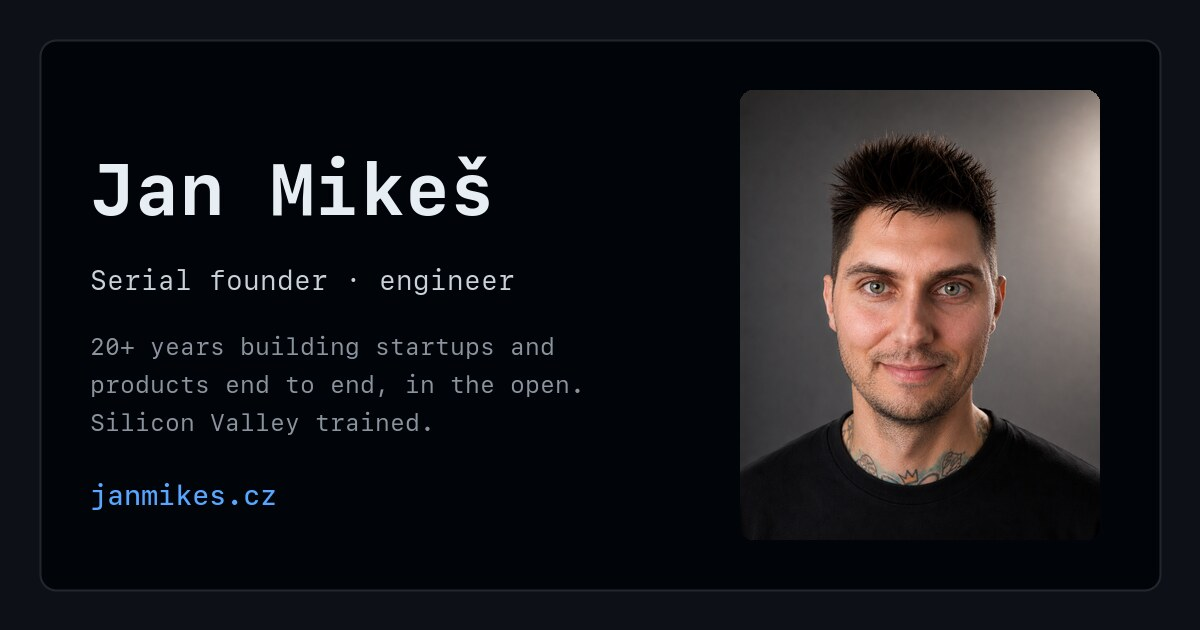
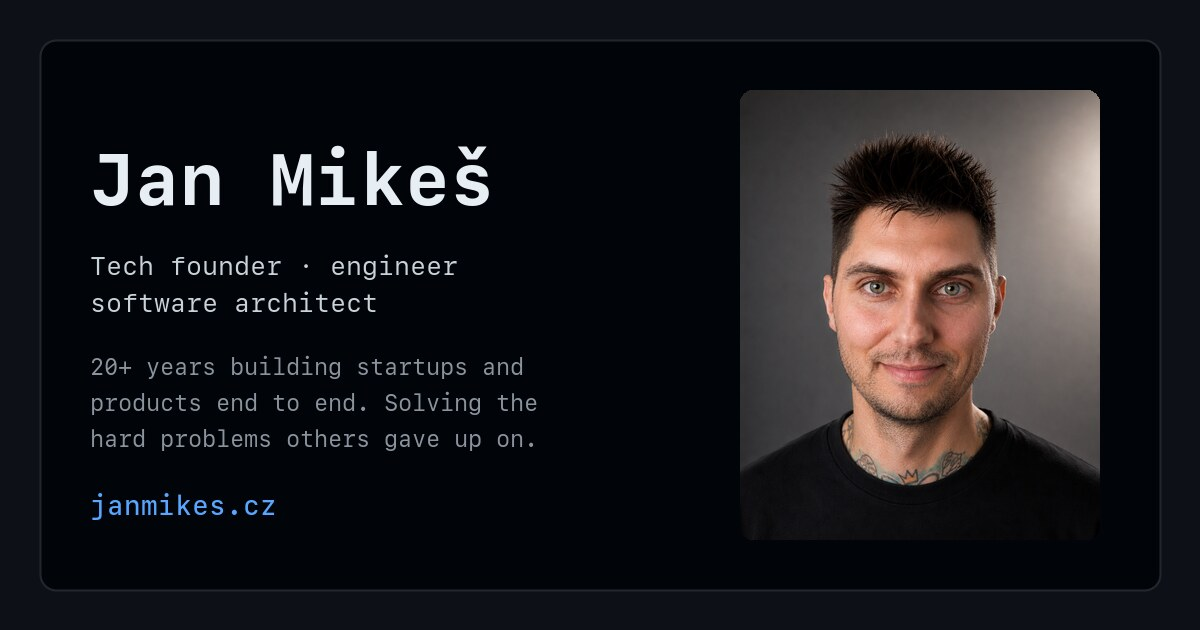
Move talks to a /slides/ page; sharpen the positioning
The Recently strip was tied to a single meetup and would have aged
badly at the top of the homepage. Talks now live on their own page.

- New /slides/ page listing all three decks, newest first:
  Tech Meetup #43 (clean context, jobless devs) and #39 (RAG chatbot).
  Titles taken from the live decks rather than guessed.
- Homepage: Recently header removed, replaced with a "Slides from my
  talks" CTA at the end of the topics section, where it follows on
  naturally from what I talk about
- Positioning: "Serial founder & engineer" -> "Tech founder & software
  architect" across title, OG/Twitter, JSON-LD and the social card
- Terminal now leads "Tech founder and hardcore engineer", second
  paragraph adds software architect and the hard-problems angle
- "Engineering" bullet -> "Engineering & architecture"
- sitemap.xml lists both pages

Claude-Session: https://claude.ai/code/session_01Y8howp8LuVKAx8KpiLhjQN

diff --git a/index.html b/index.html
@@ -3,8 +3,8 @@
 <head>
 <meta charset="utf-8">
 <meta name="viewport" content="width=device-width, initial-scale=1">
-<title>Jan Mikeš — Serial founder &amp; engineer</title>
-<meta name="description" content="Jan Mikeš — serial founder and hands-on engineer from the Czech Republic. 20+ years building startups and products end to end. Trained at Salesforce, Oracle and Google in Silicon Valley. Builder of MySpeedPuzzling.com and other things, mostly in the open.">
+<title>Jan Mikeš — Tech founder &amp; software architect</title>
+<meta name="description" content="Jan Mikeš — tech founder, hardcore engineer and software architect from the Czech Republic. 20+ years building startups and products end to end, and solving the hard problems others gave up on. Trained at Salesforce, Oracle and Google in Silicon Valley.">
 <link rel="canonical" href="https://janmikes.cz/">
 <meta name="color-scheme" content="dark light">
 <meta name="theme-color" content="#0d1117" media="(prefers-color-scheme: dark)">
@@ -13,19 +13,19 @@
 
 <meta property="og:type" content="profile">
 <meta property="og:site_name" content="janmikes.cz">
-<meta property="og:title" content="Jan Mikeš — Serial founder &amp; engineer">
-<meta property="og:description" content="20+ years building startups and products end to end. Serial founder, hands-on engineer, Silicon Valley trained. Building in the open.">
+<meta property="og:title" content="Jan Mikeš — Tech founder &amp; software architect">
+<meta property="og:description" content="20+ years building startups and products end to end. Tech founder, hardcore engineer and software architect. Silicon Valley trained, building in the open.">
 <meta property="og:url" content="https://janmikes.cz/">
 <meta property="og:image" content="https://janmikes.cz/assets/og.jpg">
 <meta property="og:image:width" content="1200">
 <meta property="og:image:height" content="630">
-<meta property="og:image:alt" content="Jan Mikeš — serial founder and engineer">
+<meta property="og:image:alt" content="Jan Mikeš — tech founder and software architect">
 <meta property="og:locale" content="en_GB">
 <meta property="profile:first_name" content="Jan">
 <meta property="profile:last_name" content="Mikeš">
 <meta name="twitter:card" content="summary_large_image">
-<meta name="twitter:title" content="Jan Mikeš — Serial founder &amp; engineer">
-<meta name="twitter:description" content="20+ years building startups and products end to end. Serial founder, hands-on engineer, Silicon Valley trained. Building in the open.">
+<meta name="twitter:title" content="Jan Mikeš — Tech founder &amp; software architect">
+<meta name="twitter:description" content="20+ years building startups and products end to end. Tech founder, hardcore engineer and software architect. Silicon Valley trained, building in the open.">
 <meta name="twitter:image" content="https://janmikes.cz/assets/og.jpg">
 
 <link rel="icon" href="/favicon.svg" type="image/svg+xml">
@@ -74,31 +74,8 @@ a:hover{text-decoration:underline; text-underline-offset:3px}
 .skip{position:absolute; left:-9999px}
 .skip:focus{position:static; display:inline-block; margin-bottom:1rem; color:var(--accent)}
 
-/* ---------- recently ---------- */
-.recent{margin:0 0 1.5rem}
-.recent__label{
-  display:flex; align-items:center; gap:.5rem;
-  margin:0 0 .6rem; padding-left:.15rem;
-  font-size:.72rem; letter-spacing:.14em; text-transform:uppercase; color:var(--dim);
-}
-.pulse{width:.5rem;height:.5rem;border-radius:50%;background:var(--accent);flex:none;
-  box-shadow:0 0 0 0 var(--accent); animation:pulse 2.4s ease-out infinite}
-@keyframes pulse{70%{box-shadow:0 0 0 .45rem rgba(63,185,80,0)}100%{box-shadow:0 0 0 0 rgba(63,185,80,0)}}
-.recent__grid{display:grid; gap:.6rem}
-@media (min-width:37.5rem){.recent__grid{grid-template-columns:1fr 1fr}}
-.talk{
-  display:block; position:relative;
-  padding:.6rem .9rem .65rem .9rem;
-  border:1px solid var(--border); border-left:2px solid var(--accent);
-  border-radius:8px; background:var(--raise);
-  color:inherit; transition:border-color .15s, transform .15s, background .15s;
-}
-.talk:hover,.talk:focus-visible{text-decoration:none; border-color:var(--accent); border-left-color:var(--accent); transform:translateY(-1px)}
-.talk b{display:block; font-weight:600; font-size:.84rem; color:var(--fg-strong); line-height:1.5}
-
 /* ---------- terminal ---------- */
 .term{
-  margin-top:2rem;
   border:1px solid var(--border); border-radius:10px;
   background:var(--panel); overflow:hidden; box-shadow:var(--shadow);
 }
@@ -137,6 +114,15 @@ h2::after{content:""; flex:1; height:1px; background:var(--border-soft)}
 p{margin:0 0 1rem}
 .lead{color:var(--fg)}
 .note{color:var(--dim); font-size:.87rem}
+.cta{
+  display:inline-flex; align-items:center; gap:.5rem;
+  font-size:.87rem; color:var(--fg-strong);
+  border:1px solid var(--border); border-left:2px solid var(--accent);
+  border-radius:8px; padding:.45rem .85rem; background:var(--raise);
+  transition:border-color .15s, transform .15s;
+}
+.cta::after{content:"→"; color:var(--accent)}
+.cta:hover{text-decoration:none; border-color:var(--accent); transform:translateY(-1px)}
 em{font-style:italic; color:var(--fg-strong)}
 
 /* about + photo */
@@ -200,18 +186,6 @@ a.badge:hover{border-color:var(--accent); text-decoration:none}
 
 <div class="wrap">
 
-  <header class="recent">
-    <p class="recent__label"><span class="pulse" aria-hidden="true"></span> Recently · Tech Meetup #43</p>
-    <div class="recent__grid">
-      <a class="talk" href="https://techmeetup-43-1.janmikes.cz">
-        <b>Claude Code: clean long sessions without bloated context</b>
-      </a>
-      <a class="talk" href="https://techmeetup-43-2.janmikes.cz">
-        <b lang="cs">A vývojáři nebudou mít co žrát</b>
-      </a>
-    </div>
-  </header>
-
   <main id="main">
 
     <section class="term" aria-labelledby="hello">
@@ -221,8 +195,8 @@ a.badge:hover{border-color:var(--accent); text-decoration:none}
       </div>
       <div class="term__body">
         <h1 id="hello">Hi, I'm Jan 👋</h1>
-        <p>Serial founder and hands-on engineer from the Czech Republic. I deployed my first web application over 20 years ago and never really stopped.</p>
-        <p>I build products end to end — from the database migration to the pricing page. PHP geek by origin, consultant when someone is stuck.</p>
+        <p>Tech founder and hardcore engineer from the Czech Republic. I deployed my first web application over 20 years ago and never really stopped.</p>
+        <p>Serial founder, software architect, PHP geek by origin. I build products end to end — from the database migration to the pricing page — and I take on the problems other people have already given up on.</p>
         <p>I was trained at Salesforce and Oracle in San Francisco and at Google in Palo Alto. Still one of the things I'm proudest of.</p>
         <p>Whatever can be built in the open, I build in the open.</p>
         <p class="status"><b>●</b> currently: busy, caffeinated, shipping<span class="cursor" aria-hidden="true"></span></p>
@@ -237,8 +211,8 @@ a.badge:hover{border-color:var(--accent); text-decoration:none}
           <img class="photo" src="/assets/jan-mikes.jpg" width="440" height="550" decoding="async" alt="Portrait of Jan Mikeš">
         </picture>
         <ul class="roles">
-          <li><b>Building awesome products</b>Serial founder and entrepreneur — startup spirit through and through. I&rsquo;m challenge-driven: the problems other people can&rsquo;t crack are the ones I want. And I stay close enough to the code to still be useful.</li>
-          <li><b>Engineering</b>I genuinely love technical debt. Taming legacy code <em>at scale</em> is a rare skill, and it&rsquo;s the one I&rsquo;m best at — together with CI/CD, containers, architecture and performance.</li>
+          <li><b>Building awesome products</b>Startup spirit through and through, and stubbornly challenge-driven. I start products, run them, and stay close enough to the code to still be useful at 2am.</li>
+          <li><b>Engineering &amp; architecture</b>I genuinely love technical debt. Taming legacy code <em>at scale</em> is a rare skill, and it&rsquo;s the one I&rsquo;m best at — alongside system architecture, CI/CD, containers and performance.</li>
           <li><b>Sharing</b>I love open source. Whatever can be public, I make public — and I speak at meetups and conferences about what I learn along the way.</li>
         </ul>
       </div>
@@ -273,6 +247,7 @@ a.badge:hover{border-color:var(--accent); text-decoration:none}
         <li>legacy code</li><li>performance</li><li>Claude Code</li><li>AI-assisted development</li>
       </ul>
       <p class="note">I used to be a sceptic about AI. Then I actually used Claude Code properly, and now I run twenty things at once and feel a bit like a superhero — which is exactly as exhausting as it sounds. 🙂</p>
+      <p><a class="cta" href="/slides/">Slides from my talks</a></p>
     </section>
 
     <section id="contact" aria-labelledby="h-contact">
@@ -298,11 +273,11 @@ a.badge:hover{border-color:var(--accent); text-decoration:none}
   "alternateName": "Jan Mikes",
   "url": "https://janmikes.cz/",
   "image": "https://janmikes.cz/assets/og.jpg",
-  "jobTitle": "Serial founder & software engineer",
+  "jobTitle": "Tech founder & software architect",
   "email": "mailto:j.mikes@me.com",
   "telephone": "+420773686207",
   "nationality": "Czech",
-  "description": "Serial founder, entrepreneur and hands-on engineer from the Czech Republic with 20+ years of building startups and products end to end. Trained at Salesforce, Oracle and Google in Silicon Valley. Builder of MySpeedPuzzling.com.",
+  "description": "Tech founder, hardcore engineer and software architect from the Czech Republic with 20+ years of building startups and products end to end, solving the hard problems others gave up on. Trained at Salesforce, Oracle and Google in Silicon Valley. Builder of MySpeedPuzzling.com.",
   "address": { "@type": "PostalAddress", "addressCountry": "CZ" },
   "knowsLanguage": ["cs", "en"],
   "knowsAbout": ["Startups","Entrepreneurship","Software architecture","PHP","CI/CD","Containers","Docker","Test-driven development","Domain-driven design","Monorepos","Legacy code modernisation","Performance profiling","AI-assisted development","Claude Code"],

diff --git a/slides/index.html b/slides/index.html
@@ -1,0 +1,145 @@
+<!doctype html>
+<html lang="en">
+<head>
+<meta charset="utf-8">
+<meta name="viewport" content="width=device-width, initial-scale=1">
+<title>Talks &amp; slides — Jan Mikeš</title>
+<meta name="description" content="Slides from talks by Jan Mikeš — Claude Code, autonomous AI development, Symfony, RAG and OCR. Given at Tech Meetup and elsewhere.">
+<link rel="canonical" href="https://janmikes.cz/slides/">
+<meta name="color-scheme" content="dark light">
+<meta name="theme-color" content="#0d1117" media="(prefers-color-scheme: dark)">
+<meta name="theme-color" content="#f6f8fa" media="(prefers-color-scheme: light)">
+<meta name="author" content="Jan Mikeš">
+
+<meta property="og:type" content="website">
+<meta property="og:site_name" content="janmikes.cz">
+<meta property="og:title" content="Talks &amp; slides — Jan Mikeš">
+<meta property="og:description" content="Slides from my talks — Claude Code, autonomous AI development, Symfony, RAG and OCR.">
+<meta property="og:url" content="https://janmikes.cz/slides/">
+<meta property="og:image" content="https://janmikes.cz/assets/og.jpg">
+<meta property="og:image:width" content="1200">
+<meta property="og:image:height" content="630">
+<meta property="og:locale" content="en_GB">
+<meta name="twitter:card" content="summary_large_image">
+<meta name="twitter:title" content="Talks &amp; slides — Jan Mikeš">
+<meta name="twitter:description" content="Slides from my talks — Claude Code, autonomous AI development, Symfony, RAG and OCR.">
+<meta name="twitter:image" content="https://janmikes.cz/assets/og.jpg">
+
+<link rel="icon" href="/favicon.svg" type="image/svg+xml">
+<link rel="apple-touch-icon" href="/apple-touch-icon.png">
+
+<style>
+:root{
+  --bg:#0d1117; --panel:#010409; --raise:#0f151d;
+  --border:#21262d; --border-soft:#191f27;
+  --fg:#c9d1d9; --fg-strong:#e6edf3; --dim:#8b949e;
+  --accent:#3fb950; --link:#58a6ff;
+  --glow:rgba(63,185,80,.16);
+}
+@media (prefers-color-scheme: light){
+  :root{
+    --bg:#f6f8fa; --panel:#ffffff; --raise:#ffffff;
+    --border:#d0d7de; --border-soft:#e4e8ec;
+    --fg:#24292f; --fg-strong:#0b0e12; --dim:#59636e;
+    --accent:#116329; --link:#0969da;
+    --glow:rgba(17,99,41,.10);
+  }
+}
+*,*::before,*::after{box-sizing:border-box}
+::selection{background:var(--accent); color:var(--panel)}
+html{-webkit-text-size-adjust:100%}
+body{
+  margin:0; background:var(--bg); color:var(--fg);
+  font-family:ui-monospace,SFMono-Regular,"SF Mono",Menlo,Consolas,"Liberation Mono","Roboto Mono",monospace;
+  font-size:15px; line-height:1.75;
+  -webkit-font-smoothing:antialiased; text-rendering:optimizeLegibility;
+}
+.glow{
+  position:fixed; inset:-20% 0 auto 0; height:70vh; pointer-events:none; z-index:0;
+  background:radial-gradient(60% 55% at 50% 0%, var(--glow), transparent 70%);
+}
+.wrap{position:relative; z-index:1; width:100%; max-width:46rem; margin:0 auto; padding:clamp(1.25rem,4vw,3rem) 1.25rem 3rem}
+a{color:var(--link); text-decoration:none}
+a:hover{text-decoration:underline; text-underline-offset:3px}
+:focus-visible{outline:2px solid var(--accent); outline-offset:3px; border-radius:3px}
+
+.back{display:inline-block; font-size:.8rem; color:var(--dim); margin:0 0 1.6rem}
+.back:hover{color:var(--accent); text-decoration:none}
+.back::before{content:"← "; color:var(--accent)}
+
+h1{
+  font-size:clamp(1.35rem,5.5vw,1.7rem); font-weight:600; letter-spacing:-.015em;
+  color:var(--fg-strong); margin:0 0 .7rem;
+}
+.lead{margin:0 0 2.4rem; color:var(--dim); font-size:.9rem; max-width:34rem}
+
+h2{
+  display:flex; align-items:center; gap:.6rem;
+  font-size:.78rem; font-weight:600; color:var(--dim);
+  letter-spacing:.12em; text-transform:uppercase;
+  margin:0 0 .9rem;
+}
+h2::after{content:""; flex:1; height:1px; background:var(--border-soft)}
+section{margin:0 0 2.4rem}
+section:last-of-type{margin-bottom:0}
+
+.decks{display:grid; gap:.6rem}
+.deck{
+  display:block; padding:.8rem 1rem .85rem;
+  border:1px solid var(--border); border-left:2px solid var(--accent);
+  border-radius:8px; background:var(--raise); color:inherit;
+  transition:border-color .15s, transform .15s;
+}
+.deck:hover,.deck:focus-visible{text-decoration:none; border-color:var(--accent); transform:translateY(-1px)}
+.deck b{display:block; font-weight:600; font-size:.9rem; color:var(--fg-strong); line-height:1.5}
+.deck span{display:block; margin-top:.25rem; font-size:.8rem; color:var(--dim); line-height:1.6}
+.tag{
+  display:inline-block; margin-top:.5rem;
+  font-size:.68rem; letter-spacing:.06em; text-transform:uppercase; color:var(--accent);
+  border:1px solid var(--border); border-radius:999px; padding:.05rem .5rem; background:var(--bg);
+}
+.note{margin:2.4rem 0 0; color:var(--dim); font-size:.85rem}
+
+@media (prefers-reduced-motion: reduce){
+  *,*::before,*::after{animation:none !important; transition:none !important}
+}
+</style>
+</head>
+<body>
+<div class="glow" aria-hidden="true"></div>
+
+<div class="wrap">
+  <a class="back" href="/">janmikes.cz</a>
+
+  <h1>Talks &amp; slides</h1>
+  <p class="lead">I speak at meetups and conferences about the things I actually do — AI-assisted development, architecture, and taming code that got out of hand. Slides are public, always.</p>
+
+  <section aria-labelledby="tm43">
+    <h2 id="tm43">Tech Meetup #43 · September 2026</h2>
+    <div class="decks">
+      <a class="deck" href="https://techmeetup-43-1.janmikes.cz">
+        <b>Clean context — running Claude Code for days</b>
+        <span>How to keep long Claude Code sessions sharp instead of drowning them in bloated context.</span>
+      </a>
+      <a class="deck" href="https://techmeetup-43-2.janmikes.cz">
+        <b lang="cs">A vývojáři nebudou mít co žrát</b>
+        <span>“Devs will have nothing to eat” — a light-hearted look at autonomous Claude Code platforms and what they mean for the rest of us.</span>
+        <span class="tag">in Czech</span>
+      </a>
+    </div>
+  </section>
+
+  <section aria-labelledby="tm39">
+    <h2 id="tm39">Tech Meetup #39</h2>
+    <div class="decks">
+      <a class="deck" href="https://techmeetup-39.janmikes.cz">
+        <b>Homemade AI chatbot — Symfony, RAG &amp; OCR</b>
+        <span>Building a genuinely useful chatbot on your own data, without handing the whole problem to a vendor.</span>
+      </a>
+    </div>
+  </section>
+
+  <p class="note">Want me to speak at your event? <a href="mailto:j.mikes@me.com">j.mikes@me.com</a></p>
+</div>
+</body>
+</html>
